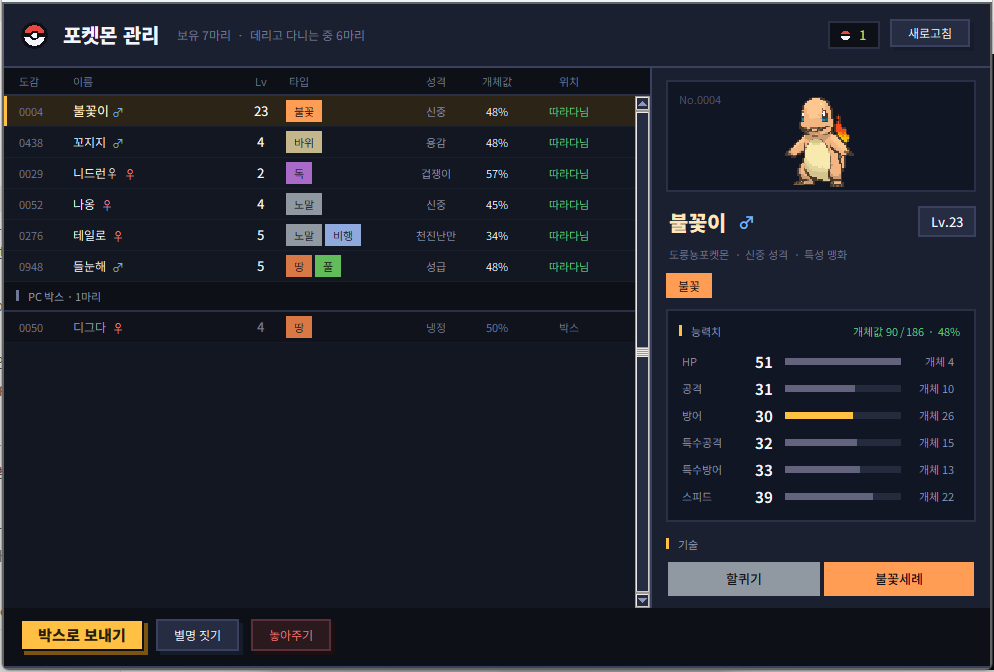
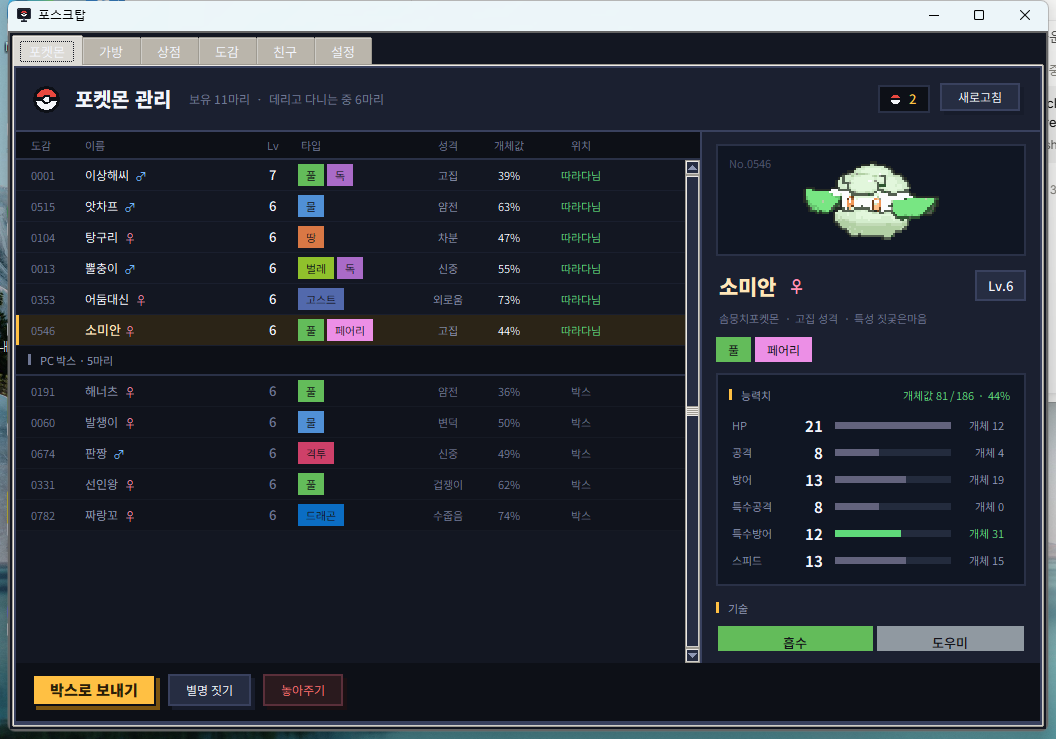
서버 배포를 한 줄로, 405 를 잡는 검사, 새 스크린샷
### 왜 405 가 났나
**서버가 아직 1.0.0 이었다.** Render 는 밀어 넣으면 알아서 배포했는데
Lightsail 은 안 한다. 옮긴 뒤로 1.0.1~1.0.4 의 서버 변경이 하나도 안
올라가 있었다. 새로 만든 /api/pokemon/order 가 서버에 없으니,
/api/pokemon/{pid} 가 먼저 걸려서 **404 가 아니라 405** 가 났다.

배포하고 확인했다: 버전 1.0.4, order 경로 401(로그인 필요 = 살아 있음),
자료 그대로(계정 3, 포켓몬 25).

### 왜 검사가 못 잡았나
순서 바꾸기 검사를 **함수를 직접 불러서** 했다. 경로를 안 거치니
라우팅 문제를 볼 수가 없었다. test_server 에 HTTP 로 두드리는 검사를
넣었다 - 경로가 뚫렸는지는 경로로만 알 수 있다.
(파티 상한 검사는 7개로 한다. 12개를 넘기면 Pydantic 이 먼저 422 로
막아서 우리 400 이 안 걸린다.)

### deploy/update.sh
백업 -> 받기 -> 다시 빌드 -> 버전 확인까지 한 줄로.
버전이 안 맞으면 로그를 보라고 알려주고 실패로 끝난다.
손으로 올려 둔 파일이 있으면 받기가 막히는 것도 처리한다(실제로 걸렸다).

### 스크린샷
창이 하나로 합쳐진 지금 모습으로 다시 찍었다. 도감·친구 화면은 새로 넣었다.

diff --git a/server/test_server.py b/server/test_server.py
@@ -322,6 +322,28 @@ def main():
     st, r = call("POST", "/api/pokemon/%d/desktop" % ids[0], {"on": False}, token)
     chk("거두기 성공", st == 200 and r["pokemon"]["onDesktop"] is False, r)
 
+    section("파티 순서 바꾸기")
+    # **반드시 HTTP 로 두드린다.** 예전에 이 기능을 함수만 직접 불러서
+    # 검사했더니, /api/pokemon/{pid} 가 먼저 걸려서 405 가 나는 것을
+    # 못 잡았다. 경로가 제대로 뚫렸는지는 경로로만 알 수 있다.
+    st, d = call("GET", "/api/pokemon/desktop", token=token)
+    party = [m["id"] for m in d["pokemon"]]
+    rev = list(reversed(party))
+    # 경로가 뚫렸는지는 한 마리로도 알 수 있다. 405 가 나오면 그건
+    # /api/pokemon/{pid} 가 먼저 걸려서 POST 를 못 찾은 것이다.
+    st, r = call("POST", "/api/pokemon/order", {"ids": rev}, token)
+    chk("순서 바꾸기 경로가 뚫려 있다 (%s)" % st, st == 200, r)
+    if len(party) >= 2:
+        st, d2 = call("GET", "/api/pokemon/desktop", token=token)
+        chk("뒤집은 순서가 그대로 반영된다",
+            [m["id"] for m in d2["pokemon"]] == rev,
+            [m["id"] for m in d2["pokemon"]])
+    # 7개. 12개를 넘기면 Pydantic 이 먼저 422 로 막아서 우리 검사가 안 걸린다.
+    st, r = call("POST", "/api/pokemon/order", {"ids": list(range(1, 8))}, token)
+    chk("파티 상한을 넘기면 막는다(400)", st == 400, (st, r))
+    st, r = call("POST", "/api/pokemon/order", {"ids": rev})
+    chk("로그인 없이는 못 바꾼다(401)", st == 401, (st, r))
+
     section("별명 / 경험치 / 놓아주기")
     st, r = call("PATCH", "/api/pokemon/%d" % ids[0], {"nickname": "테스트"}, token)
     chk("별명 설정", st == 200 and r["pokemon"]["nickname"] == "테스트", r)

diff --git a/README.md b/README.md
@@ -125,6 +125,10 @@
 만난 포켓몬이 도감에 남습니다. **1025종 전부** 있고, 세대별로 얼마나
 채웠는지 보여줍니다. 본 적 없는 종은 이름이 가려져 있습니다.
 
+<div align="center">
+<img src="docs/images/dex.png" width="600" alt="도감">
+</div>
+
 ## 도구와 상점
 
 야생을 잡거나 쓰러뜨리면 **가끔 도구가 떨어집니다.** 94종이 있습니다.
